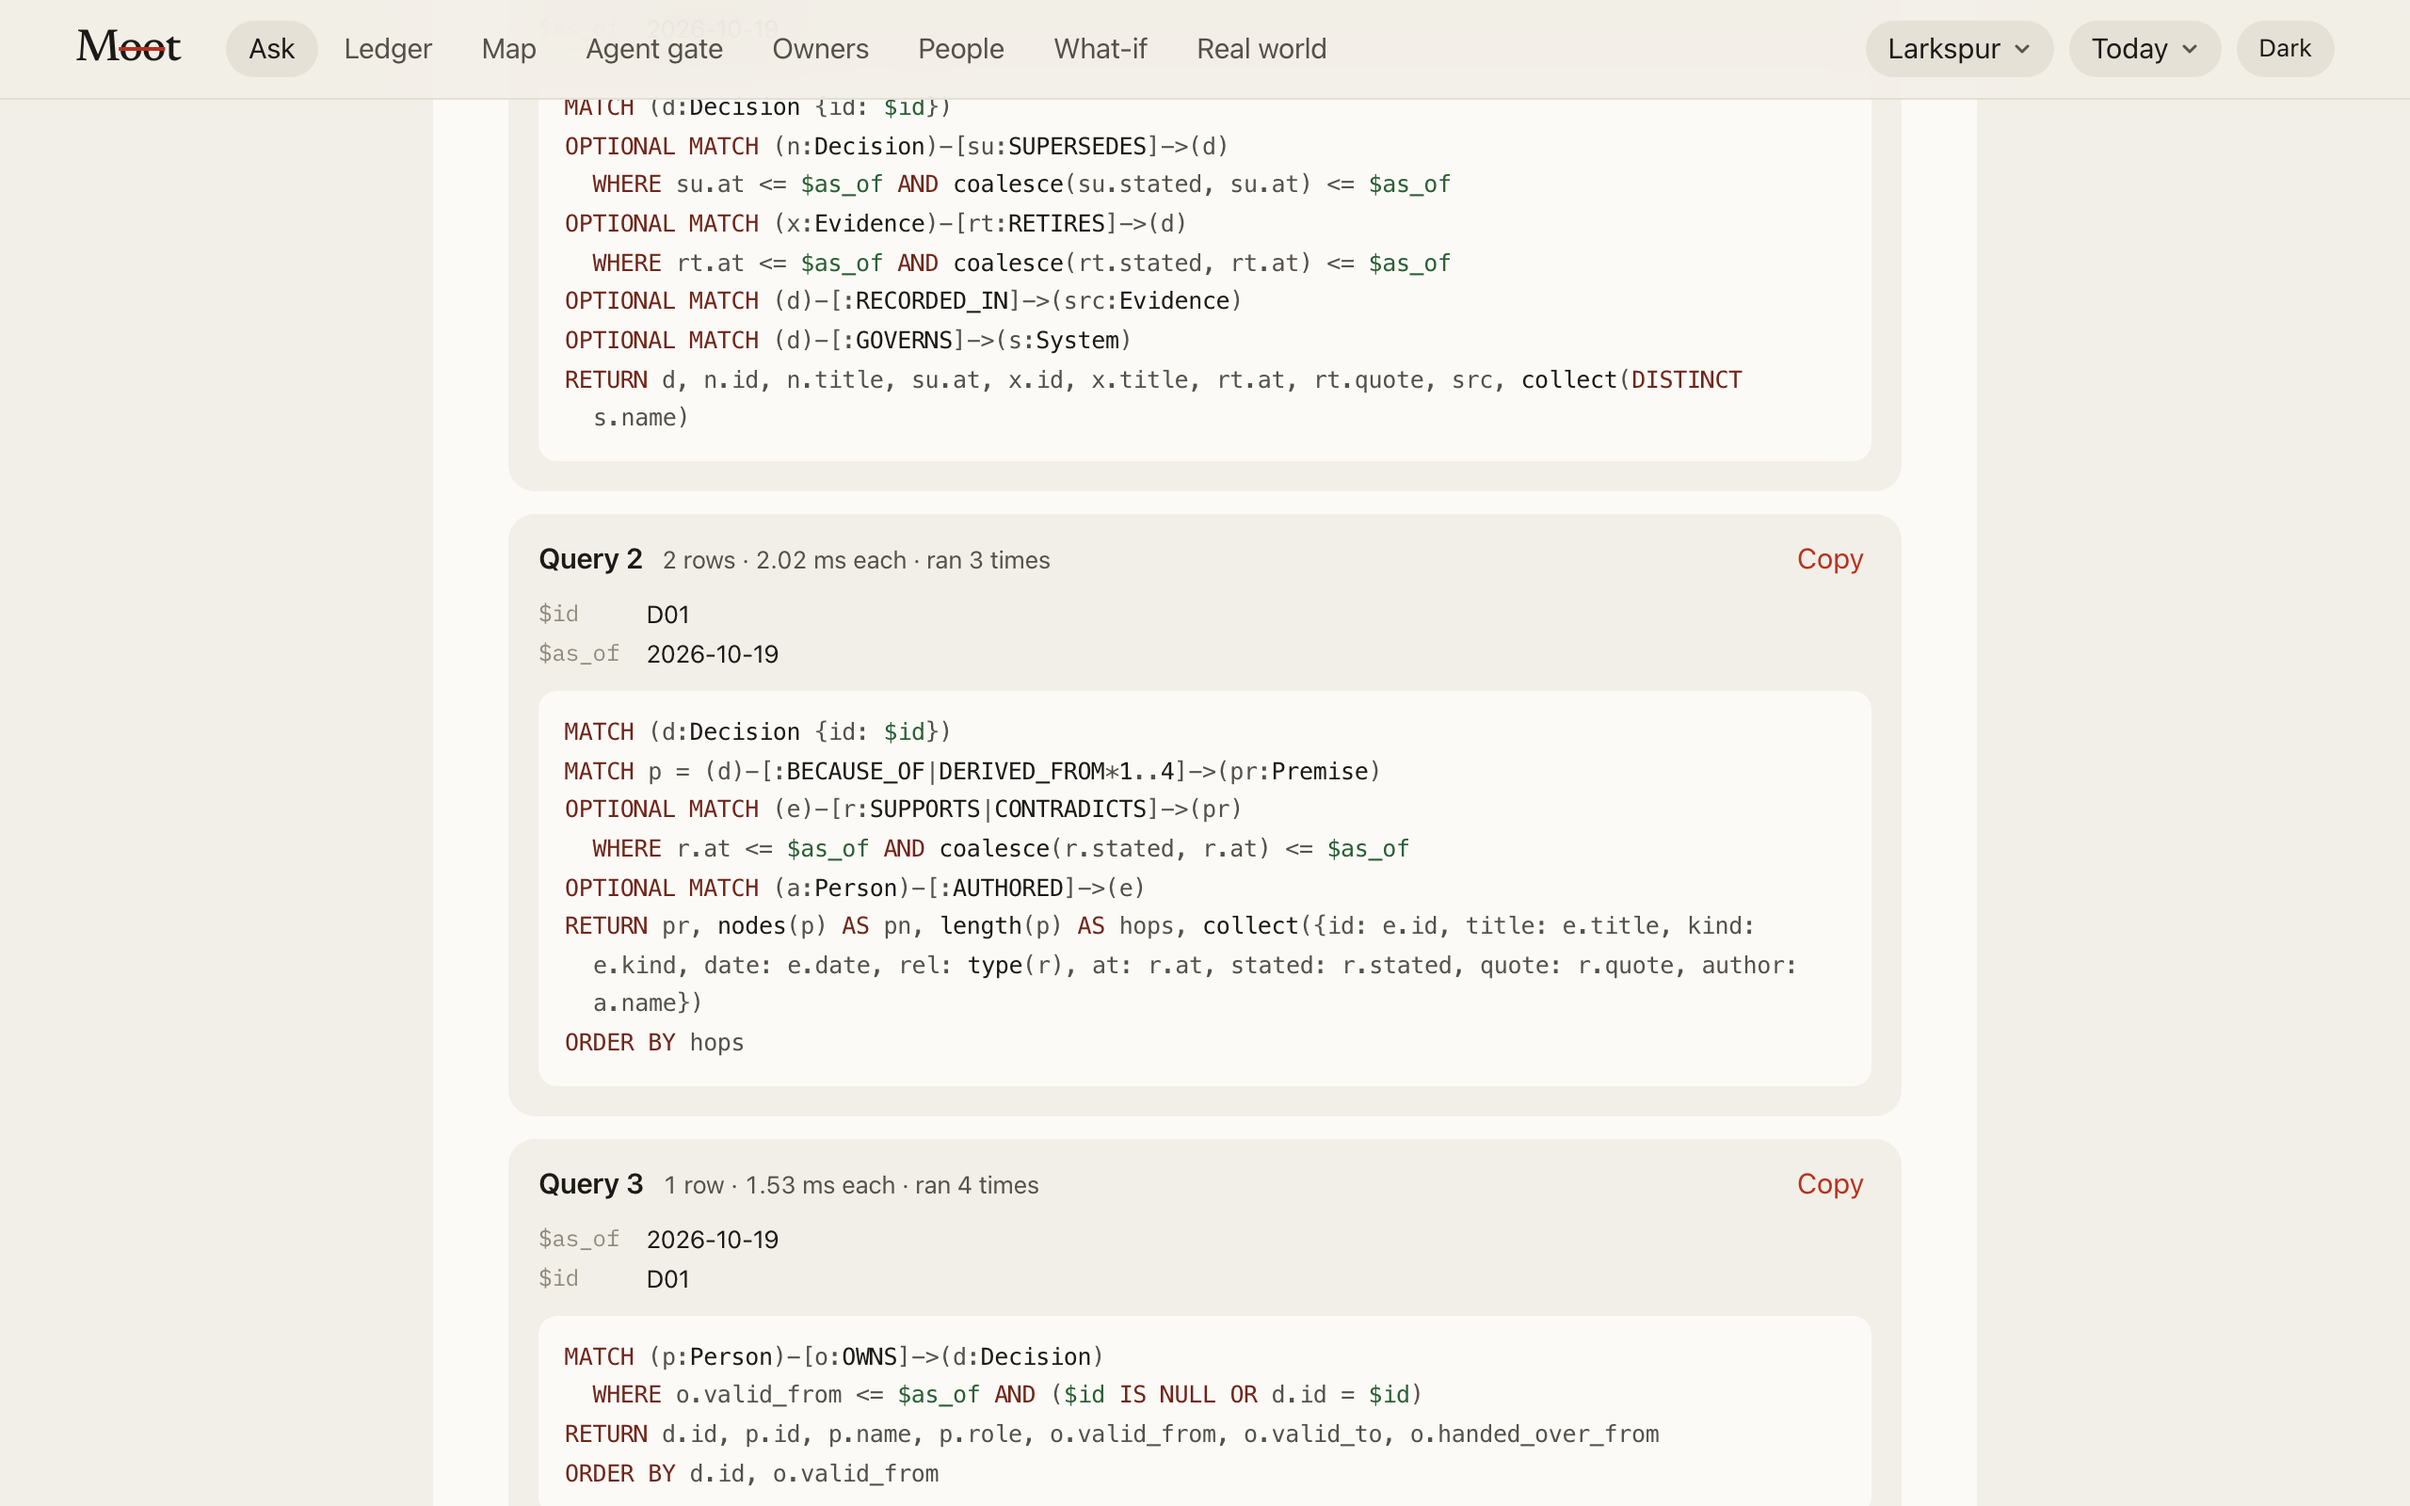
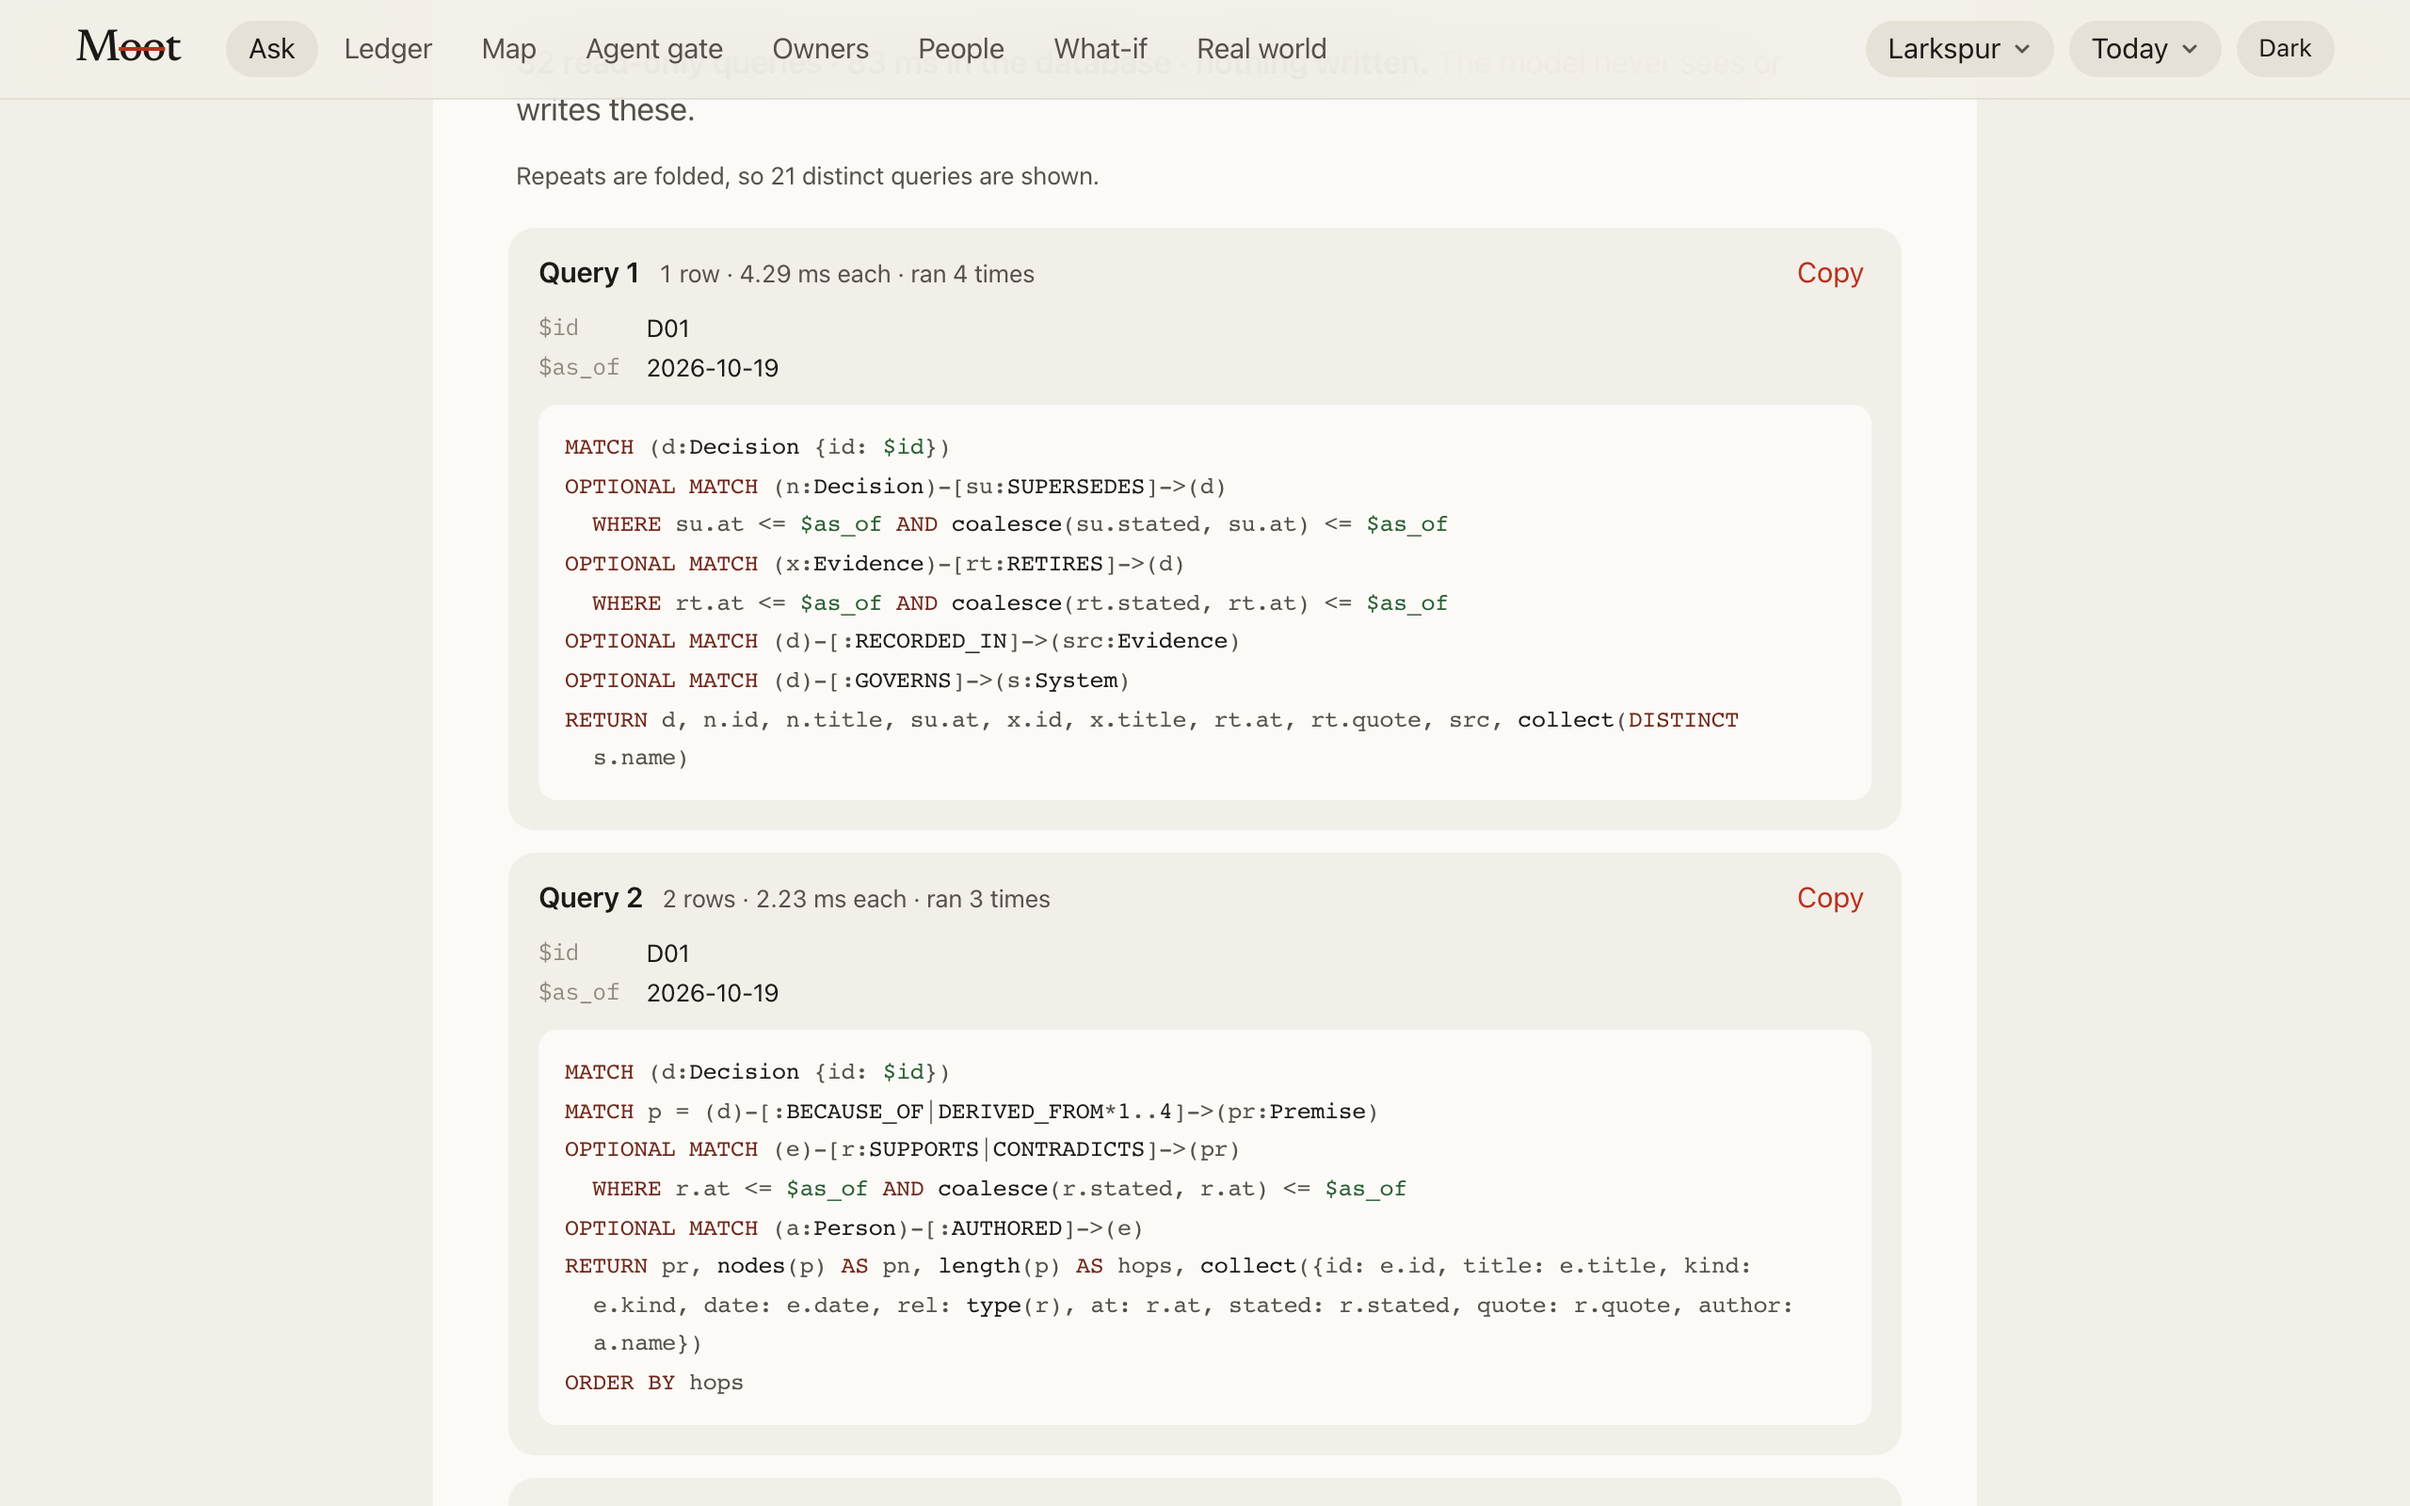
README screenshots retaken from the live app after the reseed: a real stated reason with its quote and the later ADR that contradicts it, the Graph picker on govuk-infrastructure, the Cypher tab

diff --git a/README.md b/README.md
@@ -71,7 +71,7 @@ On the four ingested repositories, UNDOCUMENTED fell from 46 to 18 of 75 decisio
 |---|---|
 | ![The evidence path for D01: the decision, its stated reason, the expired reason two hops down, and PR-412 contradicting it](docs/screens/evidence-path.png) **Evidence path.** Every verdict is drawn from the rows FalkorDB returned: D01, the reason, the expired reason behind it, PR-412. | ![The Cypher tab: the exact parameterised queries the answer ran, with rows and milliseconds](docs/screens/cypher.png) **Cypher.** The exact read-only queries each answer ran, with parameters, row counts and milliseconds. |
 | ![People: decisions only one person here can explain, bus factor, knowledge islands from algo.WCC, bridges from betweenness](docs/screens/people.png) **People.** Who only knows what: bus factor, `algo.WCC` knowledge islands and betweenness on a KNOWS projection. | ![The Graph picker: Larkspur, 25 public ADRs, the backtest and each ingested GitHub repository](docs/screens/graph-picker.png) **Graph picker.** One named graph per company: Larkspur, real ADRs, the backtest, every ingested repository. |
-| ![A real ADR's stated reason, with its exact quote, section, source link and the model that read it](docs/screens/stated-reason.png) **Stated reasons.** A real ADR's reason, its exact words, where they are, and the model that read them. | ![The landing page](docs/screens/landing.png) **Landing.** Straight links to the evidence path, the Cypher, People and an audited repository. |
+| ![log4brains: a stated reason, its exact quote from the ADR, and the later ADR that contradicts it](docs/screens/stated-reason.png) **Stated reasons.** log4brains chose Lerna because "Yarn + Lerna seems to be a very good practice"; its own later ADR says Lerna "does not integrate well". The exact words, the source and the model that read them. | ![The landing page](docs/screens/landing.png) **Landing.** Straight links to the evidence path, the Cypher, People and an audited repository. |
 
 ## Judging criteria: where to look
 
